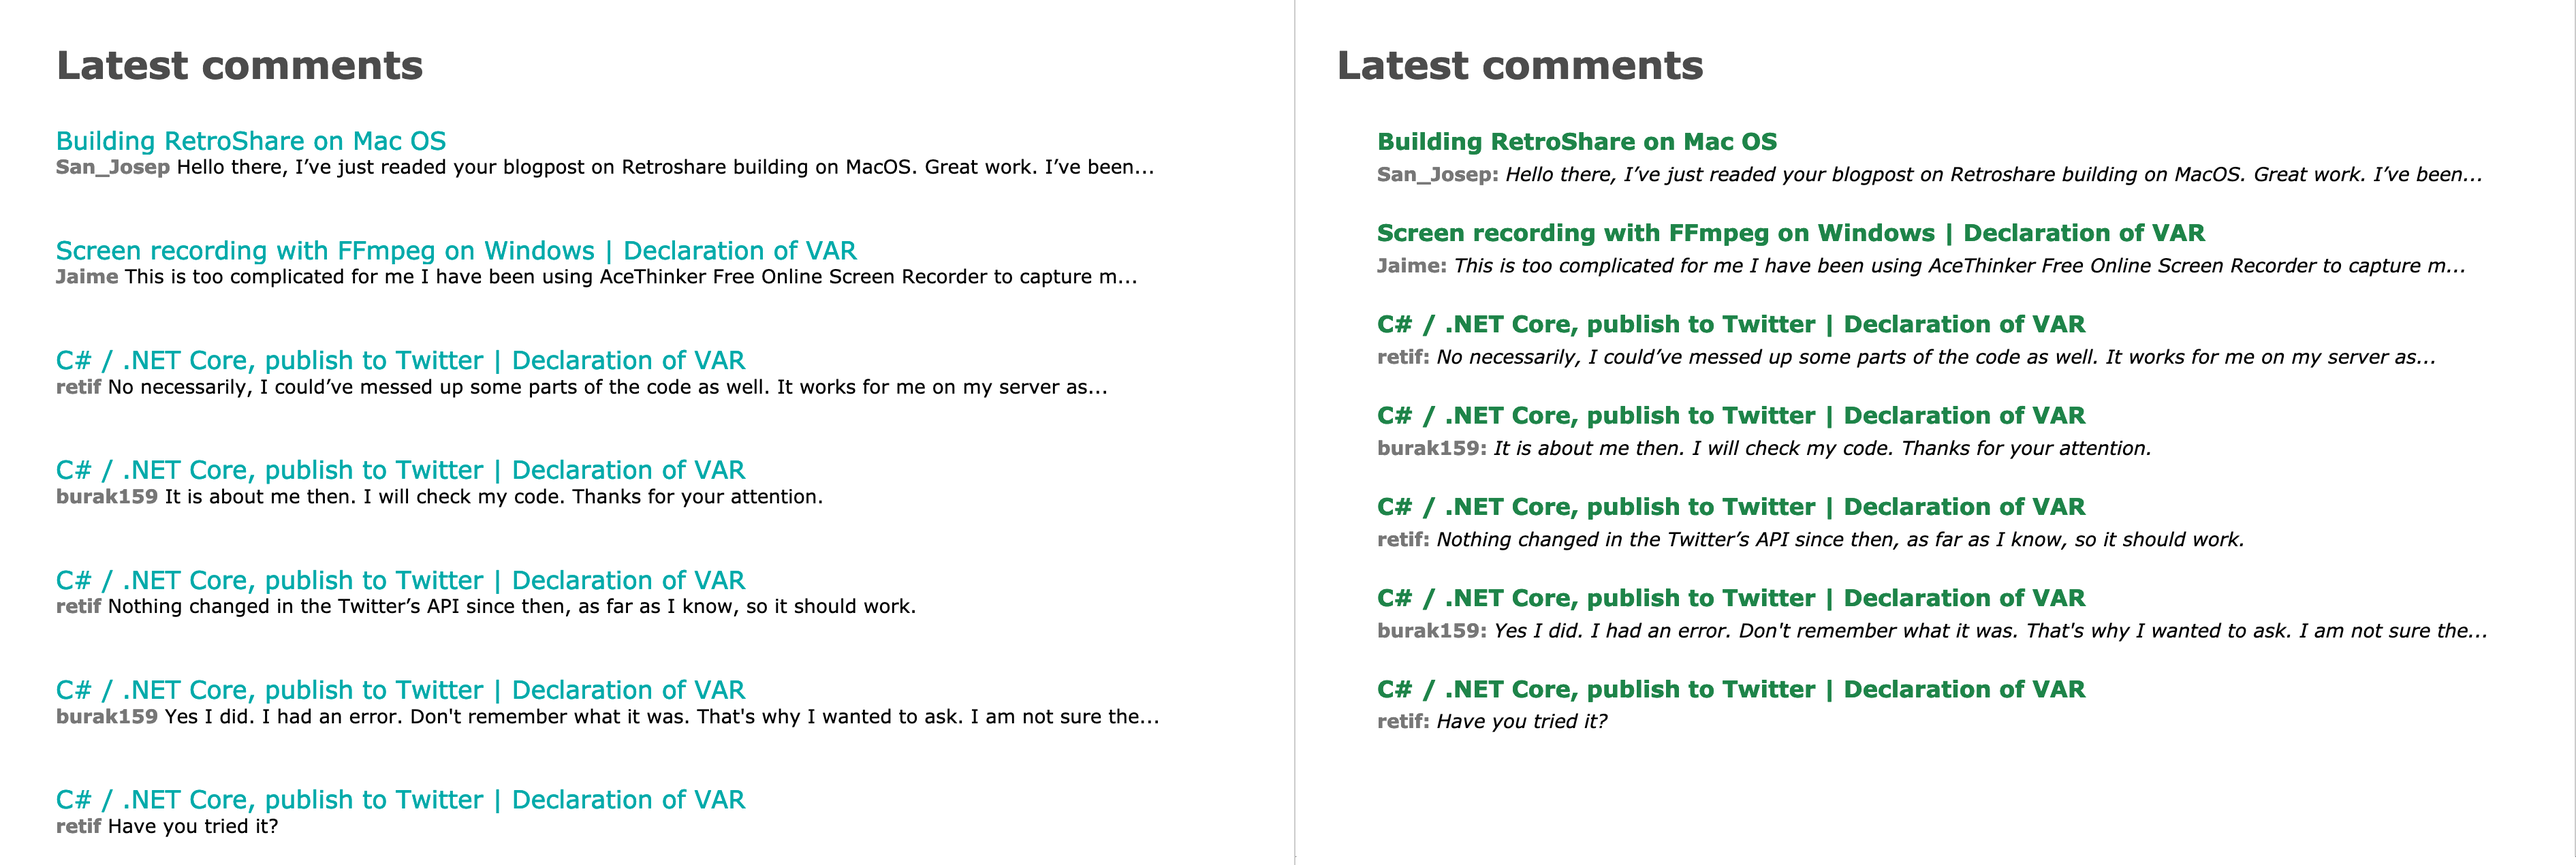
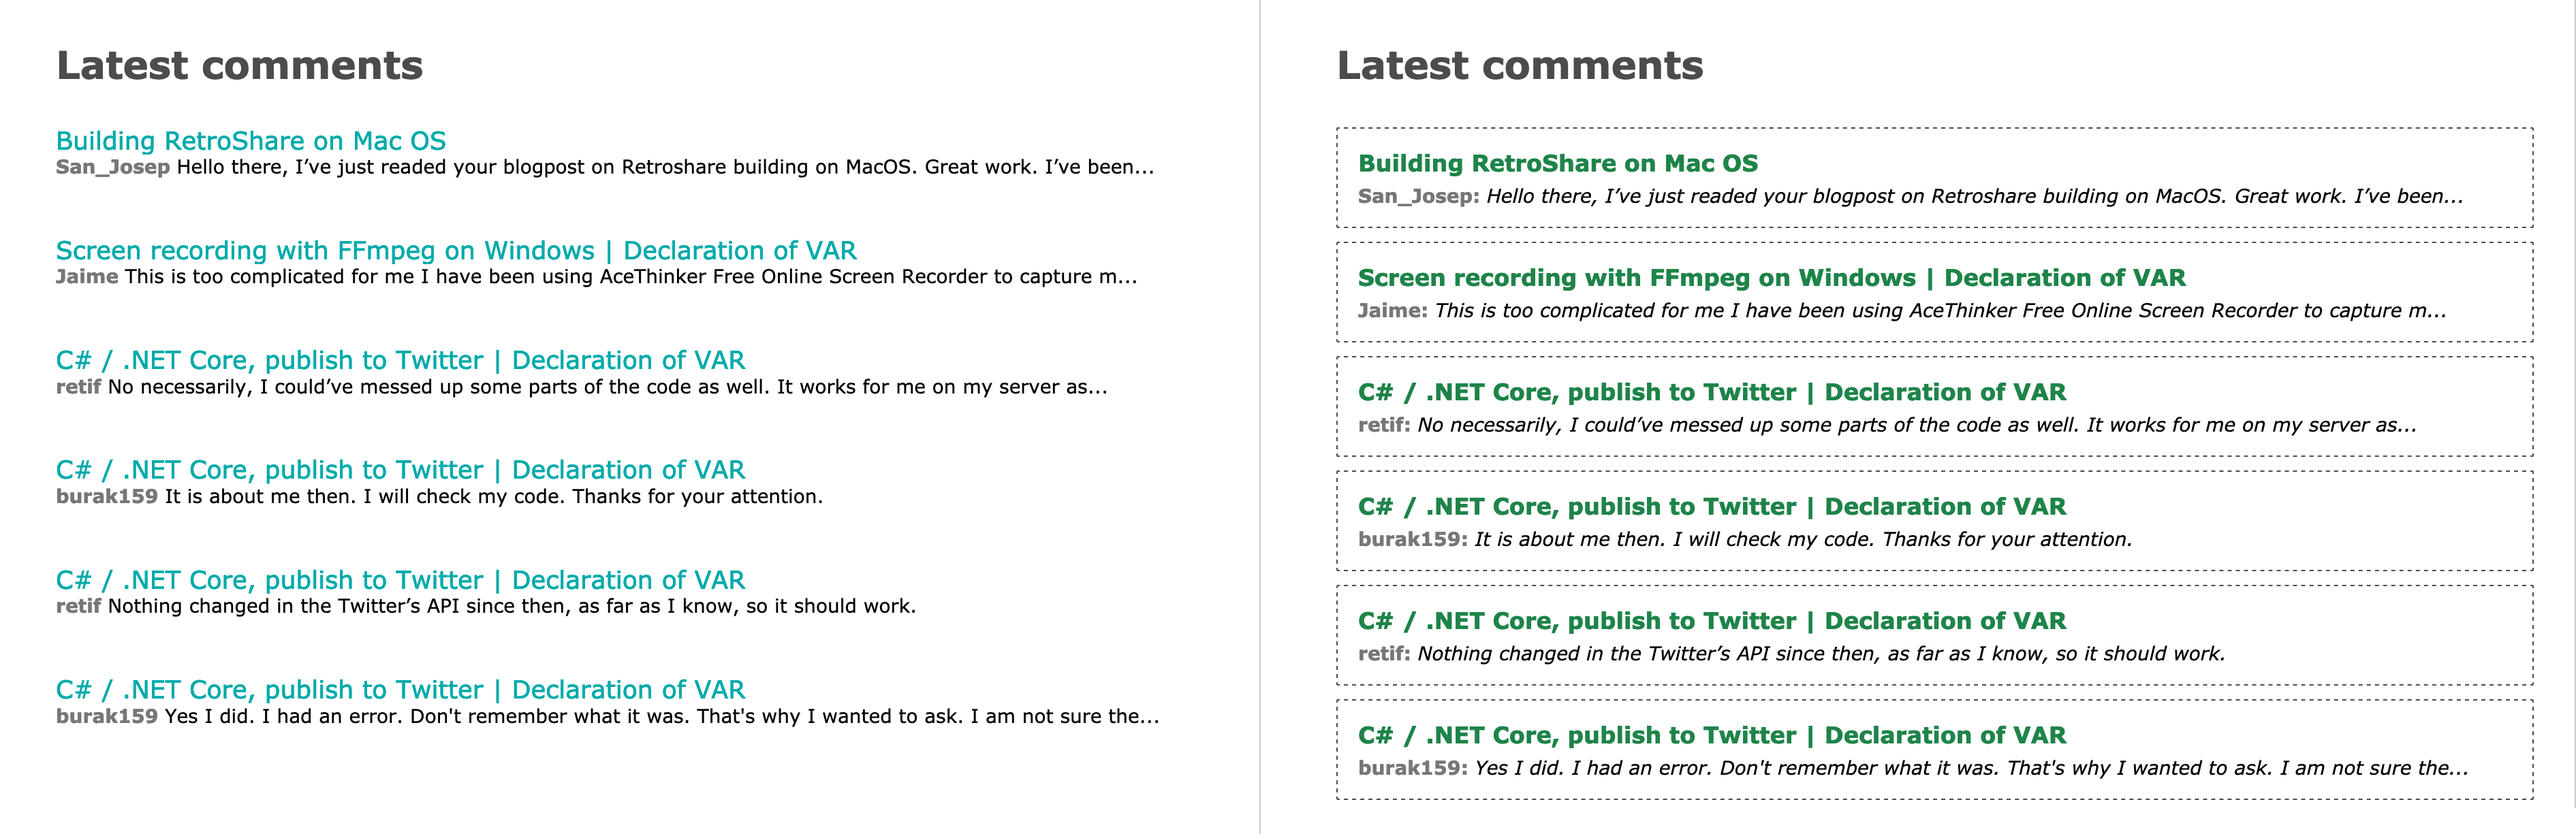
Updated the styles and screenshot in the article too

diff --git a/blog/2021/05/30/new-server-and-remark42-comments/index.html b/blog/2021/05/30/new-server-and-remark42-comments/index.html
@@ -175,12 +175,12 @@ XDEBUG_SESSION_START
 </span><span style="color:#ae81ff"></span>    | sudo -u www-data goaccess - -o /var/www/decovar.dev/admin/analytics.html
 </code></pre></div><p>However, this way you are risking to accidentally <em>blacklist</em> some routes which you don&rsquo;t have now, but might have in future, so an even better solution would be to first <em>whitelist</em> all the known routes of your website and then optionally <em>blacklist</em> some sub-routes.</p>
 <p>In my case, here&rsquo;s what I whitelisted in <code>requests-whitelisted.txt</code>:</p>
-<div class="highlight"><pre style="color:#f8f8f2;background-color:#272822;-moz-tab-size:4;-o-tab-size:4;tab-size:4"><code class="language-sh" data-lang="sh">GET <span style="color:#ae81ff">\/</span>projects<span style="color:#ae81ff">\/</span>
-GET <span style="color:#ae81ff">\/</span>stuff<span style="color:#ae81ff">\/</span>
-GET <span style="color:#ae81ff">\/</span>about<span style="color:#ae81ff">\/</span>
-GET <span style="color:#ae81ff">\/</span>blog<span style="color:#ae81ff">\/</span>
-GET <span style="color:#ae81ff">\/</span>etc<span style="color:#ae81ff">\/</span>
-GET <span style="color:#ae81ff">\/</span>top<span style="color:#ae81ff">\/</span>
+<div class="highlight"><pre style="color:#f8f8f2;background-color:#272822;-moz-tab-size:4;-o-tab-size:4;tab-size:4"><code class="language-sh" data-lang="sh">GET <span style="color:#ae81ff">\/</span>projects<span style="color:#f92672">(</span><span style="color:#ae81ff">\/</span>|$<span style="color:#f92672">)</span>
+GET <span style="color:#ae81ff">\/</span>stuff<span style="color:#f92672">(</span><span style="color:#ae81ff">\/</span>|$<span style="color:#f92672">)</span>
+GET <span style="color:#ae81ff">\/</span>about<span style="color:#f92672">(</span><span style="color:#ae81ff">\/</span>|$<span style="color:#f92672">)</span>
+GET <span style="color:#ae81ff">\/</span>blog<span style="color:#f92672">(</span><span style="color:#ae81ff">\/</span>|$<span style="color:#f92672">)</span>
+GET <span style="color:#ae81ff">\/</span>etc<span style="color:#f92672">(</span><span style="color:#ae81ff">\/</span>|$<span style="color:#f92672">)</span>
+GET <span style="color:#ae81ff">\/</span>top<span style="color:#f92672">(</span><span style="color:#ae81ff">\/</span>|$<span style="color:#f92672">)</span>
 </code></pre></div><p>I don&rsquo;t see much point in counting requests with methods other than <code>GET</code>, especially for a static website, so I explicitly whitelisted only requests with <code>GET</code> method.</p>
 <p>Just in case, if you don&rsquo;t understand why my rules are like this, take a look at any request in NGINX access log, such as this one:</p>
 <div class="highlight"><pre style="color:#f8f8f2;background-color:#272822;-moz-tab-size:4;-o-tab-size:4;tab-size:4"><code class="language-sh" data-lang="sh">36.233.31.141 - - <span style="color:#f92672">[</span>30/May/2021:05:39:47 +0000<span style="color:#f92672">]</span> <span style="color:#e6db74">&#34;GET /blog/2017/09/29/virtual-box-on-mac-os/images/virtualbox-host-only-network-adapter.png HTTP/1.1&#34;</span> <span style="color:#ae81ff">200</span> <span style="color:#ae81ff">210740</span> <span style="color:#e6db74">&#34;https://decovar.dev/blog/2017/09/29/virtual-box-on-mac-os/&#34;</span> <span style="color:#e6db74">&#34;Mozilla/5.0 (Windows NT 10.0; Win64; x64) AppleWebKit/537.36 (KHTML, like Gecko) Chrome/91.0.4472.77 Safari/537.36&#34;</span>
@@ -188,15 +188,15 @@ GET <span style="color:#ae81ff">\/</span>top<span style="color:#ae81ff">\/</span
 <p>I could&rsquo;ve also added <code>GET \/ HTTP</code> and maybe also <code>GET \/css\/</code> and <code>GET \/js\/</code> rules, but they add pretty much useless noise in reports, so I haven&rsquo;t.</p>
 <p>Anyway, having added this list to the pipe, I almost completely eliminated trash requests from report. Almost - because there were still some, which did not belong to my website, so I modified the file with blacklisted requests like so:</p>
 <div class="highlight"><pre style="color:#f8f8f2;background-color:#272822;-moz-tab-size:4;-o-tab-size:4;tab-size:4"><code class="language-sh" data-lang="sh"><span style="color:#ae81ff">\.</span><span style="color:#f92672">(</span>jar|jsp|php|asp|aspx|cgi|pl|cfm|htm|nsf<span style="color:#f92672">)</span>
-GET <span style="color:#ae81ff">\/</span>blog<span style="color:#ae81ff">\/</span>skin<span style="color:#ae81ff">\/</span>
-GET <span style="color:#ae81ff">\/</span>blog<span style="color:#ae81ff">\/</span>bad397<span style="color:#ae81ff">\/</span>
-GET <span style="color:#ae81ff">\/</span>blog<span style="color:#ae81ff">\/</span>pivot<span style="color:#ae81ff">\/</span>
-GET <span style="color:#ae81ff">\/</span>blog<span style="color:#ae81ff">\/</span>guestbook_entries<span style="color:#ae81ff">\/</span>
-GET <span style="color:#ae81ff">\/</span>blog<span style="color:#ae81ff">\/</span>administrator<span style="color:#ae81ff">\/</span>
-GET <span style="color:#ae81ff">\/</span>blog<span style="color:#ae81ff">\/</span>core<span style="color:#ae81ff">\/</span>
-GET <span style="color:#ae81ff">\/</span>blog<span style="color:#ae81ff">\/</span>wp<span style="color:#ae81ff">\-</span>links/
-GET <span style="color:#ae81ff">\/</span>blog<span style="color:#ae81ff">\/</span>modules<span style="color:#ae81ff">\/</span>
-GET <span style="color:#ae81ff">\/</span>etc<span style="color:#ae81ff">\/</span>shadow
+GET <span style="color:#ae81ff">\/</span>blog<span style="color:#ae81ff">\/</span>skin<span style="color:#ae81ff">\/</span>?
+GET <span style="color:#ae81ff">\/</span>blog<span style="color:#ae81ff">\/</span>bad397<span style="color:#ae81ff">\/</span>?
+GET <span style="color:#ae81ff">\/</span>blog<span style="color:#ae81ff">\/</span>pivot<span style="color:#ae81ff">\/</span>?
+GET <span style="color:#ae81ff">\/</span>blog<span style="color:#ae81ff">\/</span>guestbook_entries<span style="color:#ae81ff">\/</span>?
+GET <span style="color:#ae81ff">\/</span>blog<span style="color:#ae81ff">\/</span>administrator<span style="color:#ae81ff">\/</span>?
+GET <span style="color:#ae81ff">\/</span>blog<span style="color:#ae81ff">\/</span>core<span style="color:#ae81ff">\/</span>?
+GET <span style="color:#ae81ff">\/</span>blog<span style="color:#ae81ff">\/</span>wp-links<span style="color:#ae81ff">\/</span>?
+GET <span style="color:#ae81ff">\/</span>blog<span style="color:#ae81ff">\/</span>modules<span style="color:#ae81ff">\/</span>?
+GET <span style="color:#ae81ff">\/</span>etc<span style="color:#ae81ff">\/</span>shadow<span style="color:#ae81ff">\/</span>?
 </code></pre></div><p>And the updated pipe for generating GoAccess report now looks like this:</p>
 <div class="highlight"><pre style="color:#f8f8f2;background-color:#272822;-moz-tab-size:4;-o-tab-size:4;tab-size:4"><code class="language-sh" data-lang="sh">$ zcat -f /var/log/nginx/access.log* <span style="color:#ae81ff">\
 </span><span style="color:#ae81ff"></span>    | egrep -f /path/to/requests-whitelisted.txt <span style="color:#ae81ff">\
@@ -389,20 +389,19 @@ comments: true
 <p>But actually I am totally fine with the &ldquo;stock&rdquo; styles for both comment form and comments tree. What I did want to customize though was the latest comments widget, and that one is not an <code>iframe</code> but a regular <code>div</code>, so here it cometh in <code>comments.scss</code>:</p>
 <div class="highlight"><pre style="color:#f8f8f2;background-color:#272822;-moz-tab-size:4;-o-tab-size:4;tab-size:4"><code class="language-scss" data-lang="scss"><span style="color:#f92672">div</span><span style="color:#a6e22e">.remark42__last-comments</span> {
     <span style="color:#f92672">margin</span><span style="color:#a6e22e">:</span> <span style="color:#f92672">30px</span> <span style="color:#f92672">0</span> <span style="color:#f92672">20px</span>;
-    <span style="color:#f92672">padding-left</span><span style="color:#a6e22e">:</span> <span style="color:#f92672">30px</span>;
 
     <span style="color:#f92672">article</span><span style="color:#a6e22e">.comment</span> {
         <span style="color:#f92672">padding</span><span style="color:#a6e22e">:</span> <span style="color:#f92672">0</span>;
-        <span style="color:#f92672">margin</span><span style="color:#a6e22e">:</span> <span style="color:#f92672">0</span> <span style="color:#f92672">0</span> <span style="color:#f92672">25px</span>;
+        <span style="color:#f92672">margin</span><span style="color:#a6e22e">:</span> <span style="color:#f92672">0</span> <span style="color:#f92672">0</span> <span style="color:#f92672">10px</span>;
 
         <span style="color:#f92672">div</span><span style="color:#a6e22e">.comment__body</span> {
-            <span style="color:#f92672">padding-left</span><span style="color:#a6e22e">:</span> <span style="color:#f92672">0</span>;
-            <span style="color:#f92672">font-family</span><span style="color:#a6e22e">:</span> <span style="color:#e6db74">&#34;Verdana&#34;</span>;
-            <span style="color:#f92672">font-size</span><span style="color:#a6e22e">:</span> <span style="color:#f92672">14px</span>;
+            <span style="color:#f92672">padding</span><span style="color:#a6e22e">:</span> <span style="color:#f92672">15px</span>;
+            <span style="color:#f92672">border</span><span style="color:#a6e22e">:</span> <span style="color:#f92672">1px</span> <span style="color:#f92672">dashed</span> <span style="color:#960050;background-color:#1e0010">$</span><span style="color:#f92672">color-dimmed</span>;
+            <span style="color:#f92672">font-family</span><span style="color:#a6e22e">:</span> <span style="color:#960050;background-color:#1e0010">$</span><span style="color:#f92672">font-primary</span>;
 
             <span style="color:#a6e22e">.comment__title</span> {
                 <span style="color:#f92672">margin-bottom</span><span style="color:#a6e22e">:</span> <span style="color:#f92672">5px</span>;
-                <span style="color:#f92672">color</span><span style="color:#a6e22e">:</span> #1E8449;
+                <span style="color:#f92672">color</span><span style="color:#a6e22e">:</span> <span style="color:#960050;background-color:#1e0010">$</span><span style="color:#f92672">color-primary</span>;
                 <span style="color:#f92672">font-size</span><span style="color:#a6e22e">:</span> <span style="color:#f92672">1</span><span style="color:#a6e22e">.2em</span>;
                 <span style="color:#f92672">font-weight</span><span style="color:#a6e22e">:</span> <span style="color:#f92672">bold</span>;
             }
